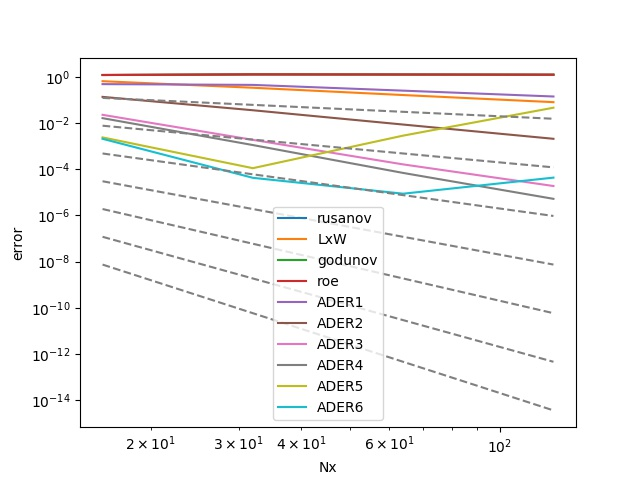
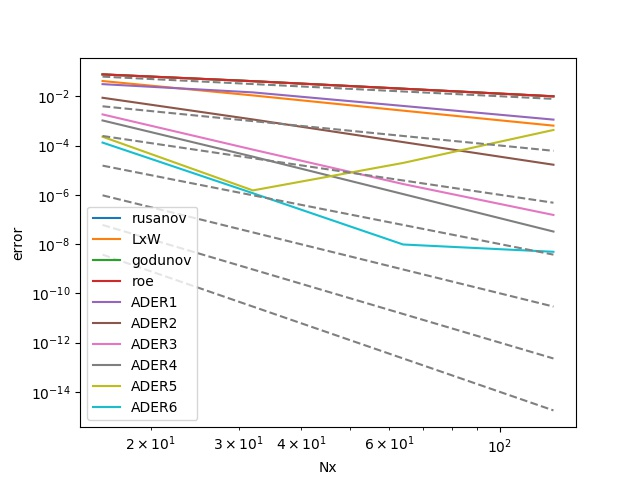
fix typo in reconstruction

diff --git a/src/reconstruction.py b/src/reconstruction.py
@@ -3,7 +3,7 @@ from .util import boundary_condition
 
 class WENOReconstruction:
 
-    def __init__(self, N, bc="periodic", eps=1e-13, r=4, lambdas=[1, 1e3, 1]):
+    def __init__(self, N, bc="periodic", eps=1e-13, r=8, lambdas=[1, 1e5, 1]):
         self.N = N
         self.bc = bc
         self.eps = eps
@@ -100,8 +100,8 @@ class WENOReconstruction:
                                        7/2160, 4/2160],
                                       [0.0, 1/1680, -4/1680, 6/1680, -4/1680,
                                        1/1680],
-                                      [-1/302420, 5/302420, -10/302420,
-                                       10/302420, -5/302420, 1/302420],
+                                      [-1/30240, 5/30240, -10/30240,
+                                       10/30240, -5/30240, 1/30240],
                                           [271/10080, -2489/10080, -1910/10080,
                                            5354/10080, -1417/10080, 191/10080],
                                           [-3/336, 40/336, -74/336, 40/336,
@@ -211,7 +211,7 @@ class WENOReconstruction:
                                    -4/110880, -129/110880, 78/110880,
                                    -13/110880],
                                   [-3/60480, 16/60480, -35/60480, 40/60480,
-                                   -25/60480, 8/60480, -1/60480],
+                                   -25/60480, 8/60480, 1/60480],
                                   [1/665280, -6/665280, 15/665280, -20/665280,
                                    15/665280, -6/665280, 1/665280],
                                       [-1375/20160, -14056/20160, 26813/20160,
@@ -231,7 +231,7 @@ class WENOReconstruction:
                                        -20/665280, 15/665280, -6/665280,
                                        1/665280],
                               [-23681/20160, 55688/20160, -66109/20160,
-                               57014/20160, -31523/20160, 9976/20160,
+                               57024/20160, -31523/20160, 9976/20160,
                                -1375/20160],
                               [22039/60480, -83994/60480, 139245/60480,
                                -132620/60480, 76785/60480, -24954/60480,

diff --git a/src/util.py b/src/util.py
@@ -80,8 +80,9 @@ def plot_order(problems, g, analytic_sol, Nxs=16*2**np.arange(5),
                 u_ana_vec[:, j] = integrate_gl(u_ana, x[j] - dx/2, x[j] + dx/2)
                 u_ana_vec[:, j] /= dx
 
-            #u_analytic = np.stack(analytic_sol(problem.x, problem.t_end))[:, 0]
             error = np.linalg.norm(u[0, :] - u_ana_vec[0, :], error_type)
+            if not error_type == np.inf:
+                error /= Nx**(1/error_type)
             errors[key].append(error)
         diff = -np.diff(np.log(errors[key]))
         orders[key] = diff / dNx
@@ -91,7 +92,7 @@ def plot_order(problems, g, analytic_sol, Nxs=16*2**np.arange(5),
     for key, error in errors.items():
         plt.loglog(Nxs, error, label=key)
     for i in range(1, 8):
-        plt.loglog(Nxs, 2/Nxs**i, '--', c='gray')
+        plt.loglog(Nxs, 1/Nxs**i, '--', c='gray')
     plt.legend()
     plt.xlabel("Nx")
     plt.ylabel("error")

diff --git a/scripts/test_order.py b/scripts/test_order.py
@@ -35,4 +35,4 @@ if __name__ == "__main__":
                                Nt_max=int(1e9), N_gl=N_gl, callbacks=callbacks)
         problems["ADER" + str(N)] = problem_ader
     Nxs = 16*2**np.arange(4)
-    plot_order(problems, g, analytic_sol, Nxs=Nxs, save=True, error_type=1)
+    plot_order(problems, g, analytic_sol, Nxs=Nxs, save=True, error_type=np.inf)

diff --git a/src/equations.py b/src/equations.py
@@ -189,7 +189,7 @@ class Equation:
             du_dt[:, 6] = u_tttttt
         if N not in range(1, 7):
             raise NotImplementedError("Cauchy Kovalevskaya is only " + \
-                                      "implemented for N <=6.")
+                                      "implemented for N <= 6.")
         return du_dt
 
 class Linear(Equation):
